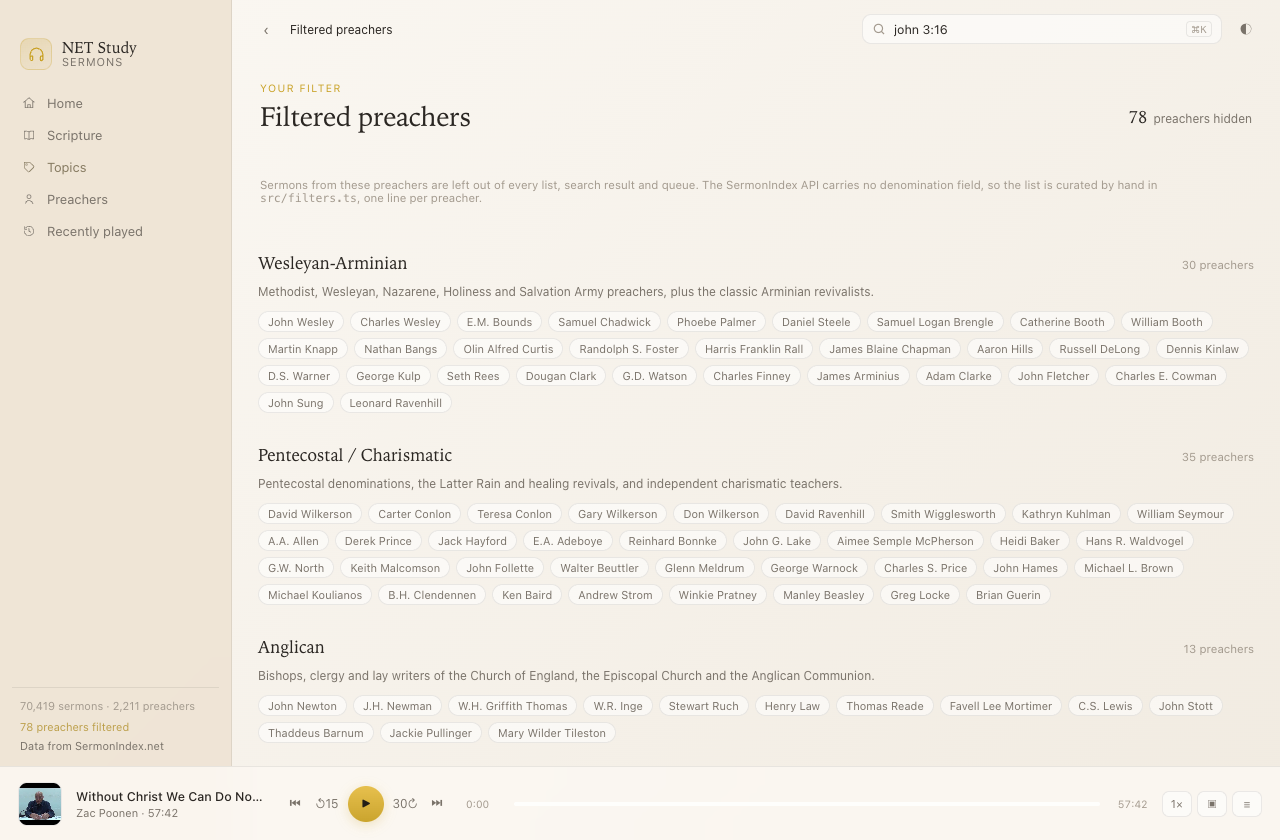
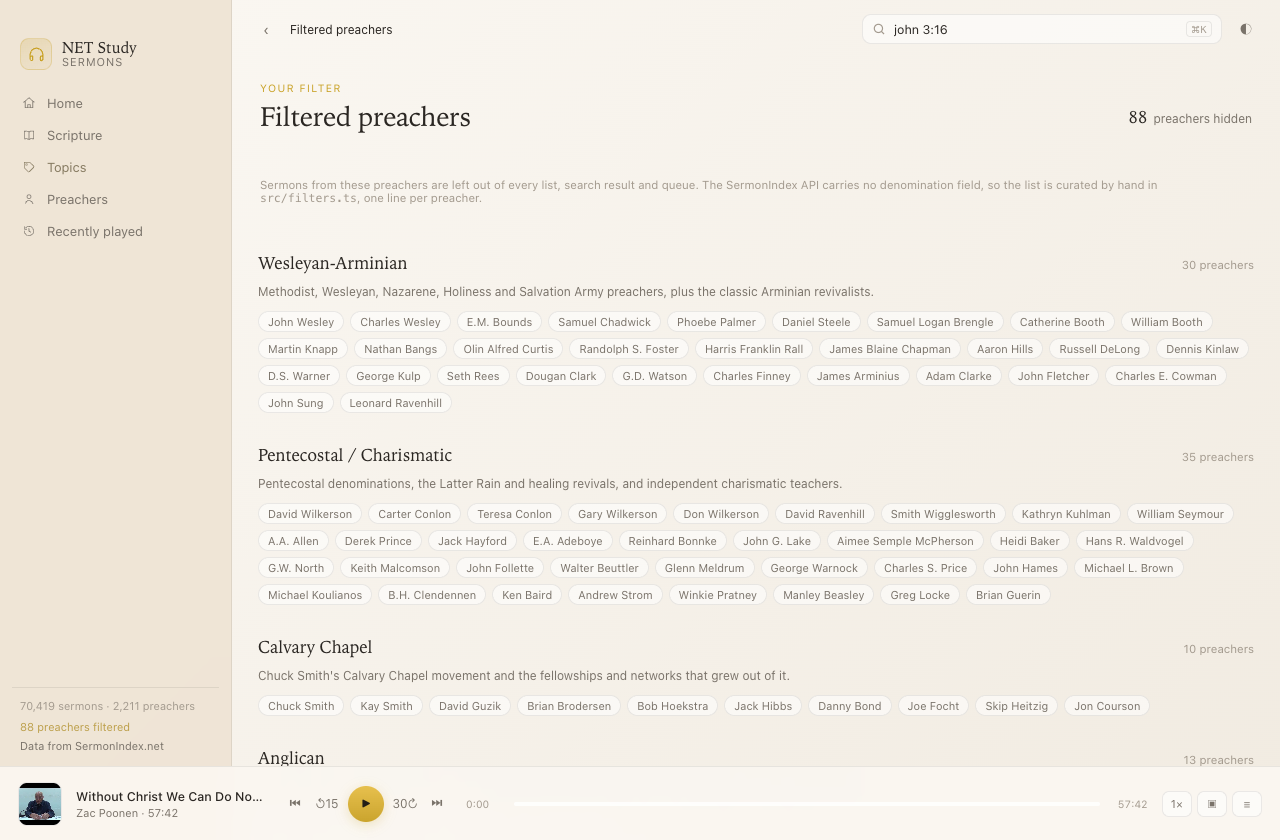
Remove Calvary Chapel
Adds Calvary Chapel as a fourth filtered tradition: Chuck Smith, Kay Smith,
David Guzik, Brian Brodersen, Bob Hoekstra, Jack Hibbs, Danny Bond, Joe Focht,
Skip Heitzig and Jon Courson. 88 preachers hidden, about 12,600 sermons.

diff --git a/src/filters.ts b/src/filters.ts
@@ -13,7 +13,7 @@
 // Deliberately kept out of the Anglican list: J.C. Ryle, George Whitefield and
 // J.I. Packer, who are Reformed in doctrine and were added back by request.
 
-export type Tradition = "Wesleyan-Arminian" | "Pentecostal / Charismatic" | "Anglican";
+export type Tradition = "Wesleyan-Arminian" | "Pentecostal / Charismatic" | "Calvary Chapel" | "Anglican";
 
 export interface Exclusion {
   slug: string;
@@ -107,6 +107,22 @@ const GROUPS: Group[] = [
       ["manley-beasley", "Manley Beasley", "Charismatic revival evangelist"],
       ["greg-locke", "Greg Locke", "Charismatic revival pastor"],
       ["brian-guerin", "Brian Guerin", "Charismatic prophetic teacher"],
+    ],
+  },
+  {
+    tradition: "Calvary Chapel",
+    blurb: "Chuck Smith's Calvary Chapel movement and the fellowships and networks that grew out of it.",
+    rows: [
+      ["chuck-smith", "Chuck Smith", "Founder of the Calvary Chapel movement"],
+      ["kay-smith", "Kay Smith", "Calvary Chapel Costa Mesa, Joyful Life"],
+      ["david-guzik", "David Guzik", "Calvary Chapel pastor, Enduring Word"],
+      ["brian-brodersen", "Brian Brodersen", "Calvary Global Network president"],
+      ["bob-hoekstra", "Bob Hoekstra", "Calvary Chapel pastor"],
+      ["jack-hibbs", "Jack Hibbs", "Calvary Chapel Chino Hills"],
+      ["danny-bond", "Danny Bond", "Calvary Chapel preacher"],
+      ["joe-focht", "Joe Focht", "Calvary Chapel of Philadelphia"],
+      ["skip-heitzig", "Skip Heitzig", "Calvary Church, Albuquerque"],
+      ["jon-courson", "Jon Courson", "Applegate Christian Fellowship, Calvary Chapel"],
     ],
   },
   {

diff --git a/README.md b/README.md
@@ -14,7 +14,7 @@ Built with Tauri 2, so the whole app is about 5 MB and starts instantly.
 - **Listen in place.** Audio streams from Archive.org with a CDN fallback, played by a persistent bar with a queue, 15-second rewind, 30-second forward, speed control and per-sermon resume.
 - **Watch the video sermons** in a theatre overlay; audio keeps its place when you switch.
 - **Recently played** remembers position, even after a quit.
-- **A curated preacher filter** leaves out Wesleyan-Arminian, Pentecostal/Charismatic and Anglican preachers everywhere: lists, search, queue and history.
+- **A curated preacher filter** leaves out Wesleyan-Arminian, Pentecostal/Charismatic, Calvary Chapel and Anglican preachers everywhere: lists, search, queue and history.
 - **Light and dark**, both derived from the NET Study plum-and-gold palette, following the system by default.
 
 ![Home, dark](docs/home-dark.png)
@@ -31,14 +31,14 @@ Sermons remain the property of the preachers and ministries who hold their right
 
 ## Filtering preachers
 
-The app ships with a filter that hides sermons from 78 preachers in three traditions: Wesleyan-Arminian, Pentecostal/Charismatic and Anglican. About 10,200 of the 70,419 sermons never appear, and every list says so ("2,369 of 2,504 sermons") instead of quietly shrinking.
+The app ships with a filter that hides sermons from 88 preachers in four traditions: Wesleyan-Arminian, Pentecostal/Charismatic, Calvary Chapel and Anglican. About 12,600 of the 70,419 sermons never appear, and every list says so ("2,369 of 2,504 sermons") instead of quietly shrinking.
 
 The SermonIndex API has no denomination, tradition or affiliation field, so this cannot be derived from the data. The list is curated by hand in [`src/filters.ts`](src/filters.ts), one line per preacher with a short reason. Each entry has to be checked against the roster rather than inferred from a keyword: several bios mention "holiness" or "assemblies" without meaning the Wesleyan or Assemblies of God sense.
 
 Two judgement calls worth knowing about:
 
-- **Kept:** Calvary Chapel preachers (Chuck Smith, David Guzik and others). Calvary Chapel is not Pentecostal and distances itself from the movement, though it is charismatic-adjacent.
 - **Kept:** the Reformed Anglicans J.C. Ryle, George Whitefield and J.I. Packer, who are Anglican by ordination but Reformed in doctrine. John Newton, J.H. Newman and the rest of the Anglican clergy remain on the list.
+- **Removed:** Calvary Chapel, as its own group: Chuck Smith, David Guzik, Brian Brodersen, Jack Hibbs, Joe Focht, Skip Heitzig and four others.
 
 The sidebar footer shows how many preachers are hidden and opens a page listing every one of them with the reason. To change the list, edit `src/filters.ts`; to disable the filter, return an empty array from `allExclusions()`.
 
